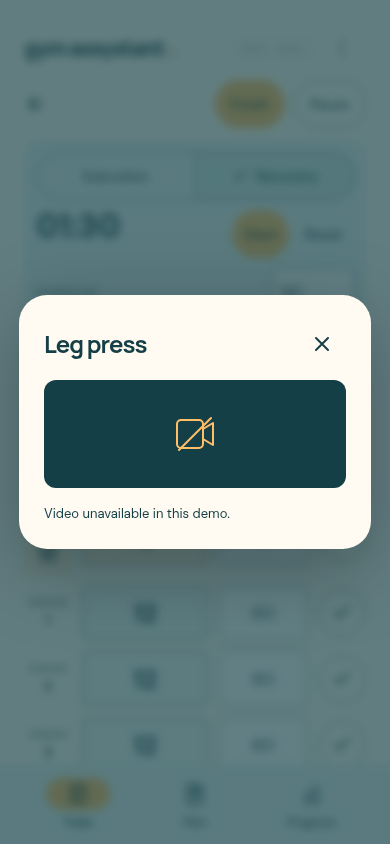
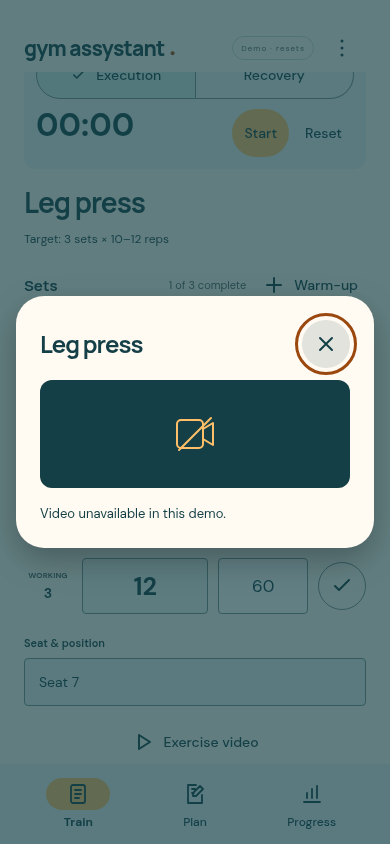
Constrain modal dialogs and their overlays to the mockup phone

diff --git a/prototypes/web/index.html b/prototypes/web/index.html
@@ -39,9 +39,10 @@
 <button id="programNav" aria-current="page"><span class="nav-icon" aria-hidden="true"><svg viewBox="0 0 24 24"><rect x="5" y="3" width="14" height="18" rx="2"/><path d="M9 8h6M9 12h6M9 16h4"/></svg></span><span data-settings-text="train">Train</span></button>
 <button id="planNav"><span class="nav-icon" aria-hidden="true"><svg viewBox="0 0 24 24"><path d="M13 3H5v18h14v-8M9 7h3M9 11h2M13 14l7-7-3-3-7 7v3z"/></svg></span><span data-settings-text="plan">Plan</span></button>
 <button id="progressNav"><span class="nav-icon" aria-hidden="true"><svg viewBox="0 0 24 24"><path d="M4 20h16M7 16v-5M12 16V7M17 16V4"/></svg></span><span data-settings-text="progress">Progress</span></button>
-</nav></main>
+</nav>
+<dialog id="videoDialog" class="phone-modal" aria-labelledby="videoTitle" data-req="GYM-002 GYM-006"><div class="dialog-card"><div class="dialog-heading"><h2 id="videoTitle"></h2><button id="closeVideo" class="md-icon-button dialog-close" aria-label="Back to exercise"><svg class="button-icon" viewBox="0 0 24 24" aria-hidden="true" focusable="false"><path d="m6 6 12 12M18 6 6 18"/></svg></button></div><div class="video-placeholder" data-req="GYM-025" aria-hidden="true"><svg viewBox="0 0 48 48"><rect x="6" y="10" width="26" height="28" rx="4"/><path d="m32 19 10-6v22l-10-6M8 40 40 8"/></svg></div><p>Video unavailable in this demo.</p></div></dialog>
+<dialog id="folderDialog" class="phone-modal" aria-labelledby="folderTitle" data-req="GYM-006 GYM-023"><div class="dialog-card"><h2 id="folderTitle" data-settings-text="picker">Save folder preview</h2><p class="field-help" data-settings-text="pickerNote"></p><label class="select-label" for="folderChoice" data-settings-text="folder">Save location</label><select id="folderChoice"><option value="Documents/gym assystant" data-settings-text="documents">Documents / gym assystant</option><option value="SD card/gym assystant" data-settings-text="sdcard">SD card / gym assystant</option></select><div class="folder-actions"><button id="cancelFolder" class="md-button md-text" data-settings-text="cancel">Cancel</button><button id="useFolder" class="md-button md-filled" data-settings-text="useFolder">Use this folder</button></div></div></dialog>
+</main>
 
-<dialog id="videoDialog" data-req="GYM-002 GYM-006"><div class="dialog-heading"><h2 id="videoTitle"></h2><button id="closeVideo" class="md-icon-button dialog-close" aria-label="Back to exercise"><svg class="button-icon" viewBox="0 0 24 24" aria-hidden="true" focusable="false"><path d="m6 6 12 12M18 6 6 18"/></svg></button></div><div class="video-placeholder" data-req="GYM-025" aria-hidden="true"><svg viewBox="0 0 48 48"><rect x="6" y="10" width="26" height="28" rx="4"/><path d="m32 19 10-6v22l-10-6M8 40 40 8"/></svg></div><p>Video unavailable in this demo.</p></dialog>
-<dialog id="folderDialog" aria-labelledby="folderTitle" data-req="GYM-023"><h2 id="folderTitle" data-settings-text="picker">Save folder preview</h2><p class="field-help" data-settings-text="pickerNote"></p><label class="select-label" for="folderChoice" data-settings-text="folder">Save location</label><select id="folderChoice"><option value="Documents/gym assystant" data-settings-text="documents">Documents / gym assystant</option><option value="SD card/gym assystant" data-settings-text="sdcard">SD card / gym assystant</option></select><div class="folder-actions"><button id="cancelFolder" class="md-button md-text" data-settings-text="cancel">Cancel</button><button id="useFolder" class="md-button md-filled" data-settings-text="useFolder">Use this folder</button></div></dialog>
-<script src="js/data.js"></script><script src="js/calendar.js"></script><script src="js/plan.js"></script><script src="js/programs.js"></script><script src="js/attendance.js"></script><script src="js/metrics.js"></script><script src="js/timers.js"></script><script src="js/session.js"></script><script src="js/exports.js"></script><script src="js/settings.js"></script><script src="js/app.js"></script>
+<script src="js/data.js"></script><script src="js/calendar.js"></script><script src="js/plan.js"></script><script src="js/programs.js"></script><script src="js/attendance.js"></script><script src="js/metrics.js"></script><script src="js/timers.js"></script><script src="js/session.js"></script><script src="js/exports.js"></script><script src="js/dialogs.js"></script><script src="js/settings.js"></script><script src="js/app.js"></script>
 </body></html>

diff --git a/prototypes/web/css/style.css b/prototypes/web/css/style.css
@@ -135,7 +135,7 @@ select { width: 100%; padding: 12px; color: var(--on-surface); border: 1px solid
 .stat-row { display: flex; align-items: center; justify-content: space-between; padding: 20px 0 12px; font-size: 12px; gap: 15px; }
 .stat-row strong { font-size: 23px; }
 dialog { border: 0; border-radius: var(--shape-extra-large); padding: 25px; width: min(380px, calc(100% - 32px)); color: var(--on-surface); background: var(--surface); box-shadow: 0 20px 80px #0004; }
-dialog::backdrop { background: var(--scrim); backdrop-filter: blur(5px); }
+dialog::backdrop { background: transparent; }
 dialog h2 { font-size: 24px; }
 dialog p { font-size: 13px; }
 .video-placeholder { background: var(--on-surface); border-radius: 13px; color: var(--accent); text-align: center; padding: 30px 10px; margin-bottom: 23px; }
@@ -319,7 +319,7 @@ summary:focus-visible { outline: 3px solid var(--focus); outline-offset: 2px; bo
 .dialog-heading { display: flex; align-items: center; justify-content: space-between; gap: 12px; }
 .dialog-heading h2 { margin: 0; }
 #videoDialog .video-placeholder { margin: 12px 0 16px; }
-#videoDialog > p { margin-bottom: 0; }
+#videoDialog .dialog-card > p { margin-bottom: 0; }
 
 .finished-review .set-row [data-toggle]:disabled { opacity: 1; }
 
@@ -412,3 +412,13 @@ details[open] > summary .disclosure-icon svg { transform: rotate(180deg); }
 .active-plan-tag { display: inline-block; margin-top: 8px; border-radius: var(--shape-full); padding: 4px 10px; background: var(--tonal-container); color: var(--on-surface); font-size: 11px; font-weight: 600; }
 .use-plan { flex-shrink: 0; padding-inline: 16px; }
 #libraryFeedback:empty { display: none; }
+
+/* GYM-006, GYM-015: the native dialog's outer surface is a clipped phone-sized scrim. */
+.phone-modal {
+  position: fixed; inset: auto; left: var(--modal-left); top: var(--modal-top);
+  width: var(--modal-width); height: var(--modal-height); max-width: none; max-height: none;
+  margin: 0; border: 0; padding: 16px; border-radius: var(--modal-radius);
+  background: var(--scrim); box-shadow: none; overflow: hidden;
+}
+.phone-modal[open] { display: grid; grid-template-rows: minmax(0, 1fr); place-items: center; }
+.dialog-card { width: min(360px, 100%); min-width: 0; min-height: 0; max-height: 100%; overflow-y: auto; padding: 24px; border-radius: var(--shape-extra-large); background: var(--surface); box-shadow: 0 12px 32px #0004; overscroll-behavior: contain; }

diff --git a/prototypes/web/js/dialogs.js b/prototypes/web/js/dialogs.js
@@ -1,0 +1,40 @@
+'use strict';
+// GYM-006, GYM-015: retain native modal semantics while confining presentation to the phone.
+const GymDialogs = (() => {
+  const phone = document.querySelector('.phone');
+  function position(dialog) {
+    const bounds = phone.getBoundingClientRect();
+    const style = getComputedStyle(phone);
+    const radius = Math.max(0, parseFloat(style.borderTopLeftRadius) - phone.clientLeft);
+    dialog.style.setProperty('--modal-left', `${bounds.left + phone.clientLeft}px`);
+    dialog.style.setProperty('--modal-top', `${bounds.top + phone.clientTop}px`);
+    dialog.style.setProperty('--modal-width', `${phone.clientWidth}px`);
+    dialog.style.setProperty('--modal-height', `${phone.clientHeight}px`);
+    dialog.style.setProperty('--modal-radius', `${radius}px`);
+  }
+  const sync = () => phone.querySelectorAll('dialog[open]').forEach(position);
+  new ResizeObserver(sync).observe(phone);
+  window.addEventListener('resize', sync);
+  window.addEventListener('scroll', sync, true);
+  window.visualViewport?.addEventListener('resize', sync);
+  window.visualViewport?.addEventListener('scroll', sync);
+  phone.querySelectorAll('dialog').forEach(dialog => {
+    // Keep Tab within the app dialog, including the single-button video placeholder.
+    dialog.addEventListener('keydown', event => {
+      if (event.key !== 'Tab') return;
+      const controls = [...dialog.querySelectorAll('button,input,select,textarea,a[href],[tabindex]:not([tabindex="-1"])')].filter(element => !element.disabled && element.getClientRects().length);
+      const first = controls[0], last = controls.at(-1);
+      if (!first) { event.preventDefault(); dialog.focus(); return; }
+      if (event.shiftKey && document.activeElement === first) { event.preventDefault(); last.focus(); }
+      else if (!event.shiftKey && document.activeElement === last) { event.preventDefault(); first.focus(); }
+    });
+    dialog.addEventListener('click', event => {
+      if (event.target === dialog) dialog.close();
+    });
+  });
+  function open(dialog) {
+    position(dialog);
+    dialog.showModal();
+  }
+  return { open };
+})();

diff --git a/prototypes/web/js/app.js b/prototypes/web/js/app.js
@@ -1,5 +1,5 @@
 'use strict';
-/* global GymData, GymMetrics, GymTimers, GymCalendar, GymPlan, GymAttendance, GymSession, GymSettings, GymPrograms */
+/* global GymData, GymMetrics, GymTimers, GymCalendar, GymPlan, GymAttendance, GymSession, GymSettings, GymPrograms, GymDialogs */
 const byId = id => document.getElementById(id);
 // GYM-015: uniform decorative SVGs; the surrounding button provides its action name.
 const buttonIcon = name => {
@@ -188,7 +188,7 @@ function toggleSet(index, kind) {
 // GYM-002
 function openVideo() {
   byId('videoTitle').textContent = exercise().name;
-  byId('videoDialog').showModal();
+  GymDialogs.open(byId('videoDialog'));
 }
 // GYM-010: fictional immutable historical observations, never today's editable samples.
 function renderProgress() {
@@ -587,10 +587,6 @@ setInterval(() => {
 // GYM-002, GYM-006
 byId('watchVideo').addEventListener('click', openVideo);
 byId('closeVideo').addEventListener('click', () => byId('videoDialog').close());
-byId('videoDialog').addEventListener('click', event => {
-  const bounds = event.currentTarget.getBoundingClientRect();
-  if (event.target === event.currentTarget && (event.clientX < bounds.left || event.clientX > bounds.right || event.clientY < bounds.top || event.clientY > bounds.bottom)) event.currentTarget.close();
-});
 renderProgram();
 
 // GYM-022–024: all exports use current state, not the selected chart or a saved demo fixture.

diff --git a/prototypes/web/js/settings.js b/prototypes/web/js/settings.js
@@ -1,5 +1,5 @@
 'use strict';
-/* global GymExports */
+/* global GymExports, GymDialogs */
 // GYM-022–024: Settings preview; real text downloads, with explicit native-storage boundaries.
 const GymSettings = (() => {
   const state = { language: 'system', theme: 'system', saveFolderPreview: null };
@@ -78,7 +78,7 @@ const GymSettings = (() => {
     byId('appTheme').addEventListener('change', event => { state.theme = event.target.value; applyTheme(); });
     byId('changeFolder').addEventListener('click', () => {
       byId('folderChoice').value = state.saveFolderPreview ?? 'Documents/gym assystant';
-      byId('folderDialog').showModal();
+      GymDialogs.open(byId('folderDialog'));
     });
     byId('cancelFolder').addEventListener('click', () => byId('folderDialog').close());
     byId('useFolder').addEventListener('click', () => {

diff --git a/docs/product/traceability.md b/docs/product/traceability.md
@@ -1,6 +1,6 @@
 # Bidirectional traceability
 
-Revision 15. All Android delivery is **not started**. “Covered” below means the disposable mockup meets the acceptance criteria in [spec.md](spec.md), not that the Android product is implemented. Search a requirement ID in source comments or `data-req` attributes to trace code back to scope.
+Revision 16. All Android delivery is **not started**. “Covered” below means the disposable mockup meets the acceptance criteria in [spec.md](spec.md), not that the Android product is implemented. Search a requirement ID in source comments or `data-req` attributes to trace code back to scope.
 
 | Requirement | Source anchors / artifact | Verification | Mockup state |
 | --- | --- | --- | --- |
@@ -9,7 +9,7 @@ Revision 15. All Android delivery is **not started**. “Covered” below means 
 | GYM-003 | `app.js`: `seatInput`, `renderExercise`; `app.js`: `getSession`; `plan.js`: `openOccurrence` | Browser: edits retained; other exercises/sessions isolated | Covered |
 | GYM-004 | `app.js`: `setRow`, `updateSet`; `index.html`: `sets`; CSS: rep emphasis | Browser: rep/weight edits, negative/fractional/empty rejection, navigation retention | Covered |
 | GYM-005 | `app.js`: `toggleSet`, `completed`, `renderSession`, `renderSets` | Browser: working-set count changes, warm-up completion does not inflate it | Covered; production behavior proposed |
-| GYM-006 | `index.html`: shell/disclosures/dialog; `style.css`; `app.js`: `showView` | Browser: 320/390/430px, focus/navigation, reload reset, no page errors | Covered |
+| GYM-006 | `index.html`: phone-owned dialog shells/cards; `dialogs.js`: native modal opening and resize/scroll alignment; `style.css`: clipped phone scrim and scrollable cards; `app.js`: `showView`/video opening; `settings.js`: folder opening | Browser: desktop/phone popup bounds, short-height internal scrolling, native focus/Escape/scrim dismissal and trigger return; 320/390/430px, focus/navigation, reload reset, no page errors | Covered |
 | GYM-007 | `index.html`: browser title, wordmarks | Browser: title and visible branding | Covered |
 | GYM-008 | `data.js`: program/session/prescription; `app.js`: `renderProgram`, `openSession`; `index.html`: program/bottom navigation | Browser: three session templates, distinct ordering and rep targets | Covered; template editing in GYM-018 |
 | GYM-009 | `index.html`: exercise order; CSS: set widths/font sizes | Browser: reps first, set log before secondary video; screenshot review confirms timer at the top | Covered |
@@ -45,7 +45,7 @@ JavaScript filenames above are under `prototypes/web/js/`; `index.html` is under
 | Metric selector, fictional histories, chart, counts, context/gaps | GYM-010 |
 | Execution/recovery selectors, clock state, duration, start/pause/reset/completion | GYM-012 |
 | Wordmark, promise, copy, palette and typography | GYM-007, GYM-013 |
-| Responsive shell, disclosures, keyboard focus and dialog dismissal | GYM-006 |
+| Responsive shell, phone-bounded modal surfaces/scrims, resize/scroll alignment, keyboard focus and dismissal | GYM-006 |
 | Shared button families, SVG icons, state layers, selected segment checks, bottom navigation, shape tokens, target dimensions | GYM-008, GYM-010, GYM-015 |
 | Selected-date card, fitted week, Plan date assignment and upcoming agenda; per-date session/timer state | GYM-016 |
 | Session Ready/In progress/Paused/Finished states, Start/Pause/Resume/Finish actions, terminal log review | GYM-017 |
@@ -99,3 +99,5 @@ Revision 13, 2026-10-13: enlarged all disclosure affordances under GYM-025 after
 Revision 14, 2026-10-13: specified GYM-026 before mockup changes, then added a program library with two fictional defaults, separate editors/draft caches, new-plan creation, and explicit saved-plan activation. All 32 logic checks and the Chromium regression suite passed. Verified inactive edits/saves do not activate; dirty targets cannot activate; new drafts/renames survive navigation; untouched dates follow the active schedule; original working/warm-up logs, seat notes, prescriptions, order and running timers survive activation; reordered future Ready snapshots remain pinned; old pending sessions retain program/date and attendance; a civil-date rollover preserves original cohort ownership. Version-2 JSON contains three saved plans and two distinct drafts in the exercised download; standard Python reads it and all 59 CSV rows with program IDs, 12 original planned sessions and seven logged visits. Library/editor targets fit 320/390/430px. Reviewed 52 light/dark screen/state captures, including the new library, without sub-48px standard controls. Updated recovery/migration documentation and previews. All Android delivery remains not started.
 
 Revision 15, 2026-10-13: updated GYM-022 before adding Español to the language picker and all Settings/navigation preview strings, including folder/overflow/Back labels and download feedback. System matching now resolves supported English/Italian/Spanish base languages across regional variants and falls back to English. Chromium verified manual Spanish, es-ES/es-MX, controls/labels and lang metadata, retained user data/names, disclosure indicators, exported `settings.language=es`, 320/390/430px targets and existing workflows. Added the Spanish Settings preview. Full native localization remains deferred with Android implementation.
+
+Revision 16, 2026-10-13: updated GYM-006 before moving both dialogs into the phone and adding `dialogs.js`. Native modal shells now provide a clipped phone-sized scrim, centered/scrollable cards and position updates on resize/page/visual-viewport changes; the page-wide backdrop is transparent. Preserved Escape, button/backdrop close and trigger focus, and added Tab wrapping. Chromium regression checks passed for desktop/mobile containment, 16px card margins, actual page scrolling, short-height internal scrolling, focus and existing functionality. Reviewed the new phone/desktop/dark dialog screenshots. No Android implementation was added.

diff --git a/docs/product/spec.md b/docs/product/spec.md
@@ -1,6 +1,6 @@
 # gym assystant — draft specification
 
-Status: revision 15, for exploration. Only a disposable browser mockup is authorized. Android implementation starts after the user decides the scope. Mockup coverage does not mean a production requirement is implemented.
+Status: revision 16, for exploration. Only a disposable browser mockup is authorized. Android implementation starts after the user decides the scope. Mockup coverage does not mean a production requirement is implemented.
 
 ## Purpose
 
@@ -15,7 +15,7 @@ Follow a training program made of multiple training sessions. During each sessio
 | GYM-003 | Record seat position per exercise occurrence. | Free text persists while navigating during the mockup visit. Separate sessions have separate notes; cross-session carryover is undecided. |
 | GYM-004 | Record reps and weight for each set. | Reps are prominent and appear before weight. Reps accept nonnegative integers; kg accepts nonnegative finite numbers. Invalid input restores the last valid value. Values remain associated with the exercise occurrence. Sample values are not prescriptions. |
 | GYM-005 | Mark sets done and undone. | Completion counts update in exercise and session views. This remains a proposed production behavior. |
-| GYM-006 | Explore a responsive dummy mockup. | Narrow phone and desktop layouts, visible prototype disclosure, keyboard access and focus restoration. Edits and timers are in memory and reset on reload; statistics are labeled fictional history. |
+| GYM-006 | Explore a responsive dummy mockup. | Narrow phone and desktop layouts, visible prototype disclosure, keyboard access and focus restoration. All app-owned popups, including video and folder dialogs, stay within the simulated phone display on desktop and mobile. Modal cards are centered in that display with at least 16px edge spacing; only the phone is dimmed, and the surrounding presentation stays undimmed. Long dialog content scrolls inside the card rather than escaping the phone. Retain native modal focus trapping, Escape/close/backdrop dismissal and trigger focus restoration; adapt to resize and page scrolling without changing app data. The overflow menu remains anchored inside the phone header. These are production-style mockup presentations, not native Android delivery. Edits and timers are in memory and reset on reload; statistics are labeled fictional history. |
 | GYM-007 | Name the app gym assystant. | Browser title and visible branding use this exact spelling. |
 | GYM-008 | Center the app on a training program containing sessions. | Home identifies the active program; its session templates are accessible through the calendar and upcoming agenda. The initial sample still has three distinct templates. Each defines ordered exercises, number of sets, and target rep ranges. Selecting a session shows those prescriptions separately from actual logged sets. Train, Plan, and Progress are persistent bottom navigation destinations; Settings is reached through the top-right overflow menu. Train opens dated workouts; Plan edits their reusable templates. |
 | GYM-009 | Prioritize performance logging. | Exercise screen order: back navigation, compact execution/recovery timers at the top, exercise and prescribed target, one combined warm-up/working-set list with reps/weight controls and an inline Add warm-up action, machine setup, small video button. Set controls are visible before video access at mobile width. |

diff --git a/docs/reviews/interface-review.md b/docs/reviews/interface-review.md
@@ -84,3 +84,9 @@ Verified switching with original workout reps/weights, warm-ups, setup, running 
 ## Revision 15: Spanish language preview
 
 Added Español to Settings and the native language scope. The mockup translates Settings, folder preview, overflow labels, Back and bottom navigation; other demo screens retain their explicit English-preview boundary. Checked manual Spanish and system es-ES/es-MX, 320/390/430px controls, retained workout entries/timers, untouched user-authored plan/draft names, disclosure indicators and JSON language preference. [Spanish Settings](previews/settings-spanish.png) shows the preview.
+
+## Revision 16: dialogs stay inside the phone
+
+Video and folder dialogs previously lived outside the phone and were centered over the browser presentation. Each is now a phone-owned native modal with a clipped, phone-sized scrim and a centered card. The desktop introduction remains undimmed. Cards retain at least 16px display margins and scroll internally on short displays; native modal blocking/Escape and close focus restoration remain, with explicit Tab wrapping for the single-action video dialog. Resize and actual page scrolling preserve frame alignment.
+
+Reviewed [desktop video](previews/video-desktop-contained.png), [desktop folder preview](previews/folder-desktop-contained.png), [phone folder preview](previews/folder-contained.png), and [dark folder preview](previews/folder-contained-dark.png). Browser checks passed for phone/card bounds, resizing between 320px/390px and desktop, actual page scrolling, a 320 × 260 short viewport, internal scrolling to actions, native modal state, Tab/Shift+Tab, Escape/button/scrim dismissal, folder cancellation, trigger focus and the existing full app workflows. The top-right overflow remains inside the header. Android implementation remains deferred.

diff --git a/docs/design/android-ui.md b/docs/design/android-ui.md
@@ -41,3 +41,5 @@ GYM-022 adds System default/Light/Dark appearance through shared color roles. Th
 GYM-025 standardizes Back as a 48px circular icon in compact secondary headings, with destination labels. Save retains the filled shape but is disabled until a draft changes. Finished log status uses static check/dash symbols rather than completion buttons; recorded values remain legible without editable-field outlines. Browser number spinners are hidden without changing keyboard input or validation, and the unavailable video frame has no play symbol. Contextual differences between reorder, delete and primary actions are retained.
 
 Revision 13 enlarges every expand/collapse affordance: a full-width row with minimum 56px height, 14px label, and a 24px chevron in a 48px circular indicator at the right. The entire summary remains the native keyboard-accessible toggle; the circle is decorative rather than a second nested button. An upward chevron indicates expansion. Labels wrap, both themes share the treatment, and the indicator remains present after translation.
+
+Revision 16 confines app-owned modal presentation to the simulated phone display. Each native browser dialog supplies modal focus/Escape semantics, but its outer surface matches the phone's inner bounds and acts as the scrim; the page-wide native backdrop is transparent. A centered card with 16px minimum edge spacing scrolls internally on short displays, with shadows clipped to the phone. Resize/page-scroll observers retain alignment. This models the app window on desktop rather than centering the popup over the entire presentation. Native Android components remain future delivery.
